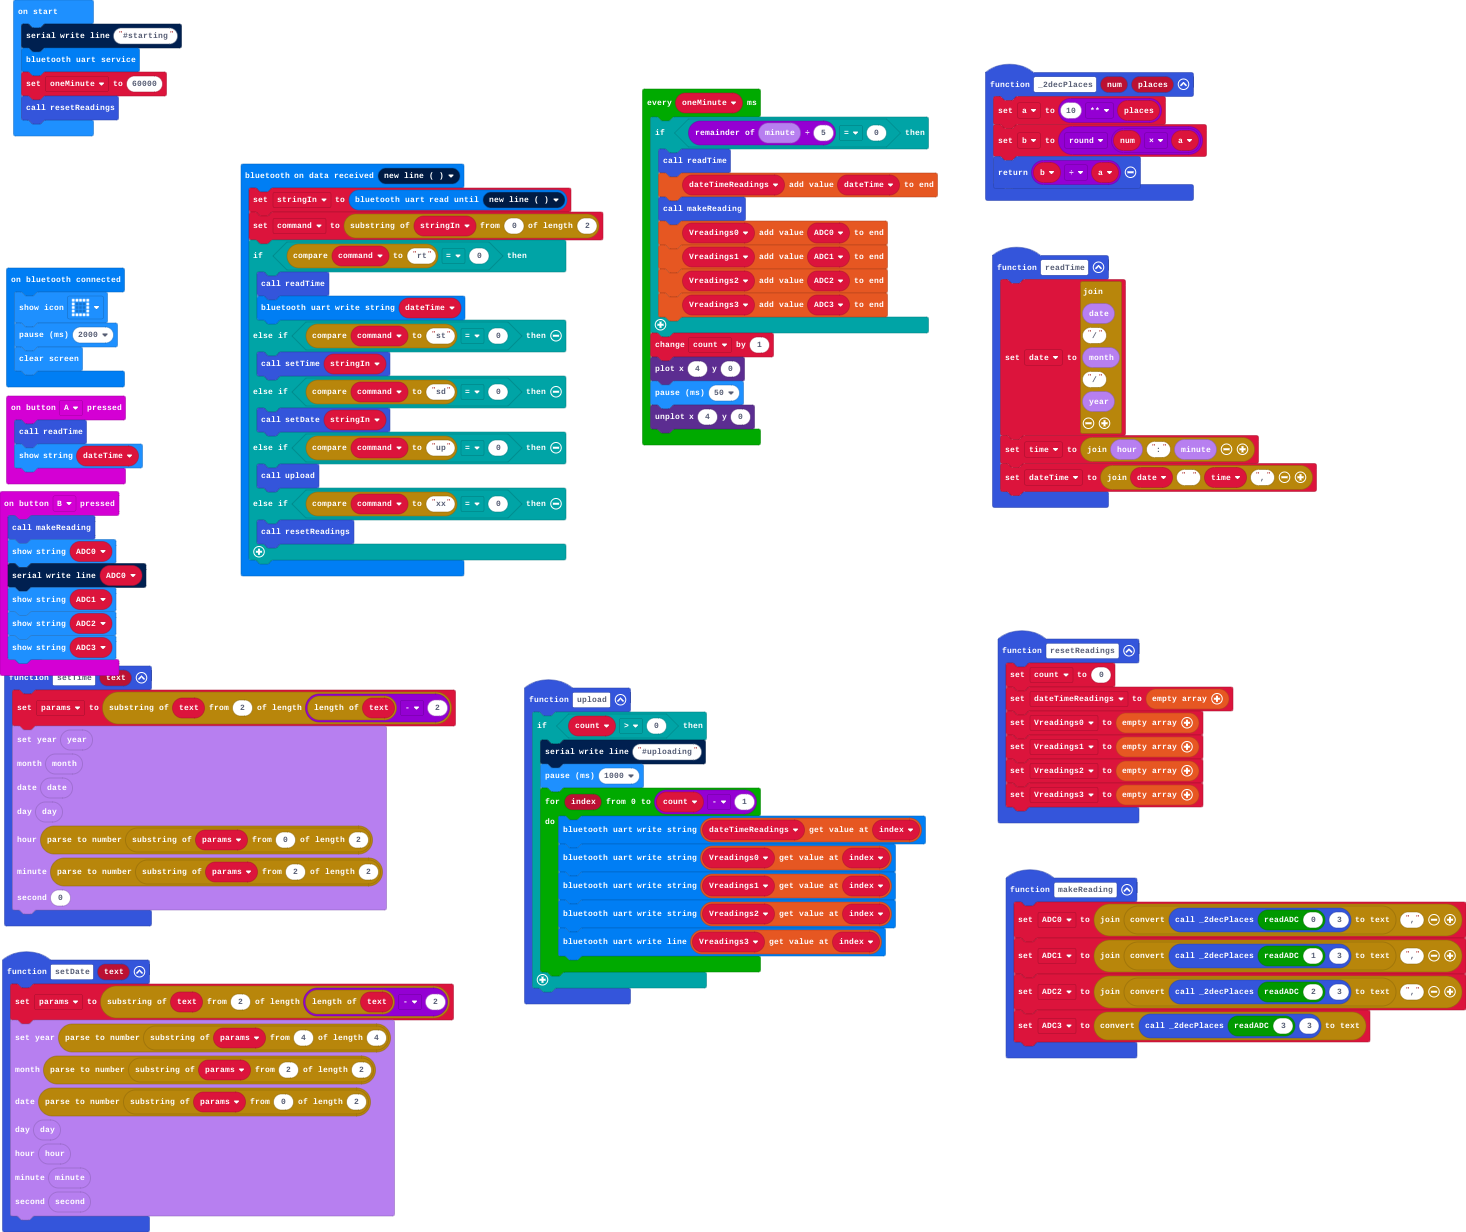
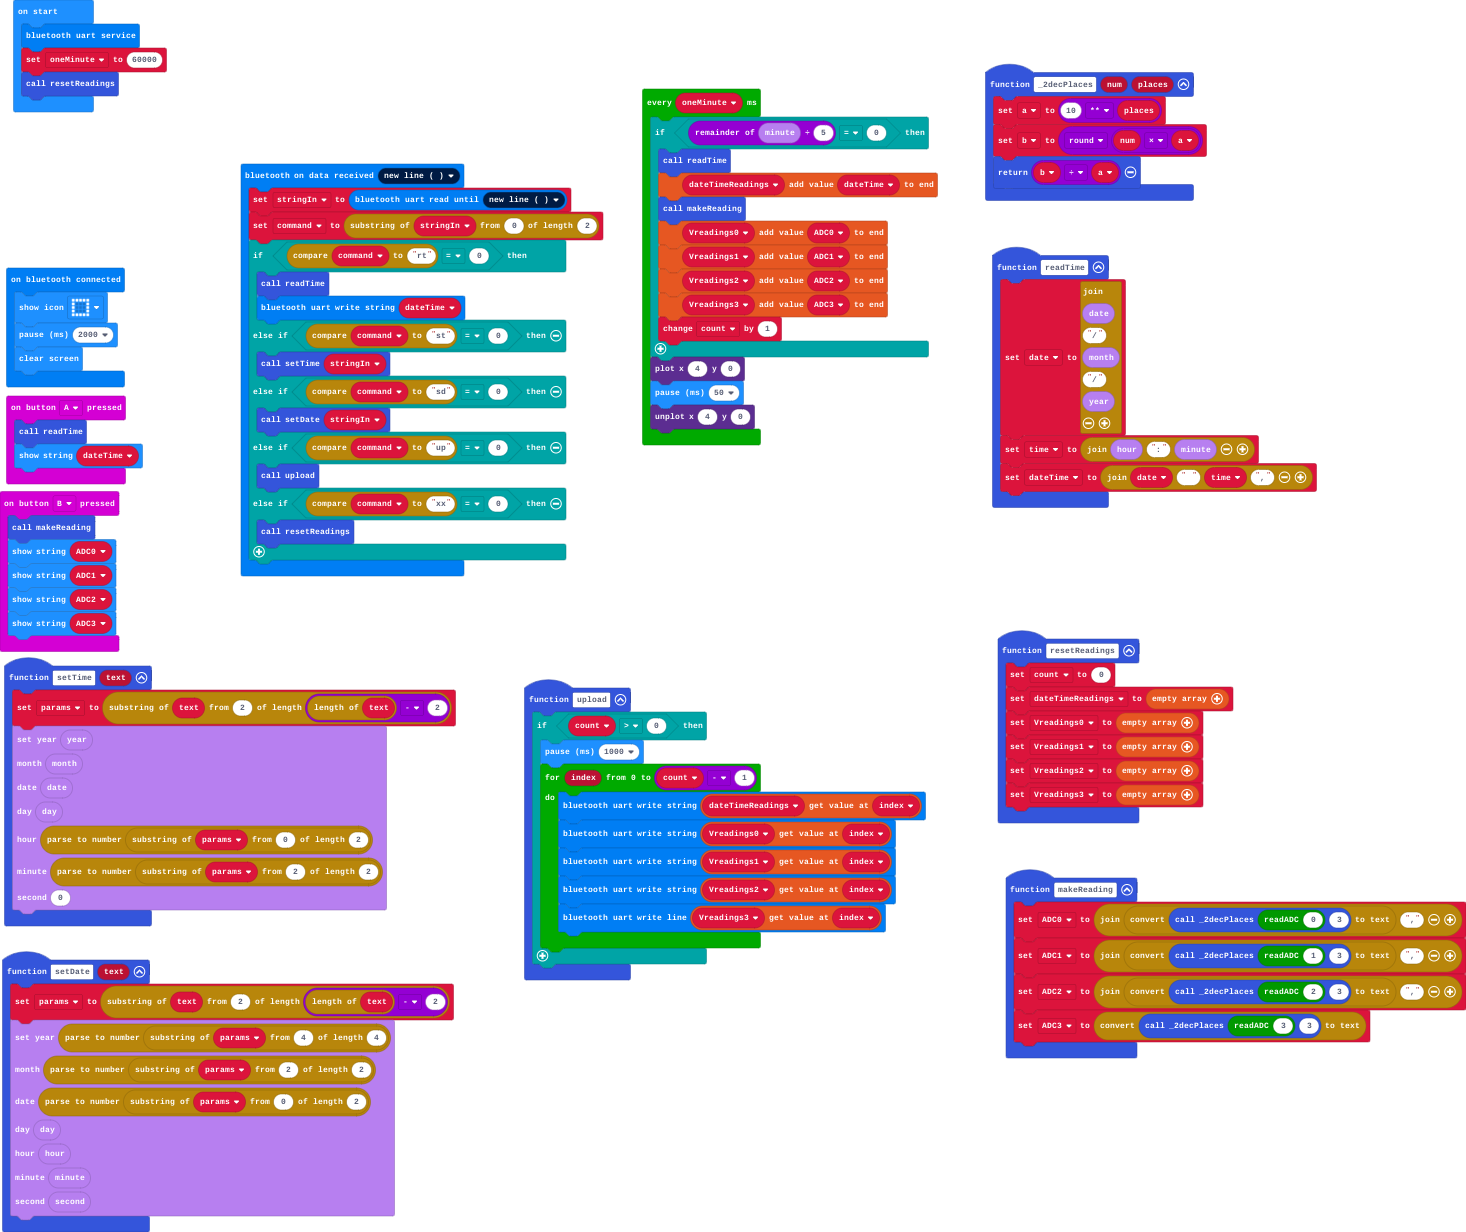
fixed count

diff --git a/main.ts b/main.ts
@@ -61,7 +61,6 @@ bluetooth.onUartDataReceived(serial.delimiters(Delimiters.NewLine), function () 
 })
 function upload () {
     if (count > 0) {
-        serial.writeLine("#uploading")
         basic.pause(1000)
         for (let index = 0; index <= count - 1; index++) {
             bluetooth.uartWriteString(dateTimeReadings[index])
@@ -87,7 +86,6 @@ function setTime (text: string) {
 input.onButtonPressed(Button.B, function () {
     makeReading()
     basic.showString(ADC0)
-    serial.writeLine(ADC0)
     basic.showString(ADC1)
     basic.showString(ADC2)
     basic.showString(ADC3)
@@ -110,7 +108,6 @@ let ADC0 = ""
 let dateTime = ""
 let time = ""
 let date = ""
-serial.writeLine("#starting")
 bluetooth.startUartService()
 let oneMinute = 60000
 resetReadings()
@@ -123,8 +120,8 @@ loops.everyInterval(oneMinute, function () {
         Vreadings1.push(ADC1)
         Vreadings2.push(ADC2)
         Vreadings3.push(ADC3)
+        count += 1
     }
-    count += 1
     led.plot(4, 0)
     basic.pause(50)
     led.unplot(4, 0)
